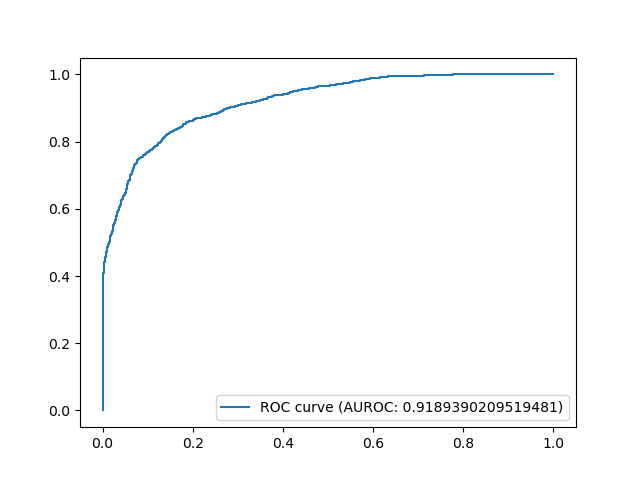
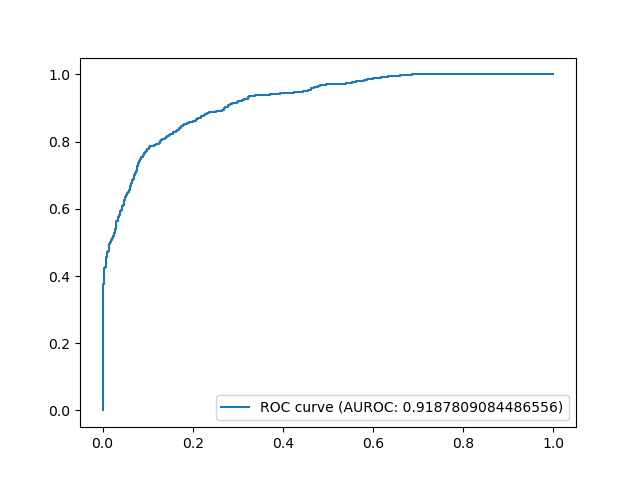
new sliding windows until -32

diff --git a/NTU/test_carla.py b/NTU/test_carla.py
@@ -38,7 +38,7 @@ def load_model(test_config):
 	# Assifn test clips
 	args.data_file = test_config["test_clips"]
 	# Sequentially advance 1 frame per step 
-	args.n_seqs = [f - args.nd for f in test_config["frames_per_clip"]] # New: changed to list # Changed to test all sequences(aka window) in video(aka trace). Number of sequences(aka windows) is total frames-frame size(aka nd = 16)
+	args.n_seqs = [f - 2*args.nd for f in test_config["frames_per_clip"]] # New: changed to list # Changed to test all sequences(aka window) in video(aka trace). Number of sequences(aka windows) is total frames-frame size(aka nd = 16)
 
 	# Load  weights  
 	encoder = Encoder(args)

diff --git a/NTU/test_drift.py b/NTU/test_drift.py
@@ -38,7 +38,7 @@ def load_model(test_config):
 	# Assifn test clips
 	args.data_file = test_config["test_clips"]
 	# Sequentially advance 1 frame per step 
-	args.n_seqs = [f - args.nd for f in test_config["frames_per_clip"]] # New: changed to list # Changed to test all sequences(aka window) in video(aka trace). Number of sequences(aka windows) is total frames-frame size(aka nd = 16)
+	args.n_seqs = [f - 2*args.nd for f in test_config["frames_per_clip"]] # New: changed to list # Changed to test all sequences(aka window) in video(aka trace). Number of sequences(aka windows) is total frames-frame size(aka nd = 16)
 
 	# Load  weights  
 	encoder = Encoder(args)
